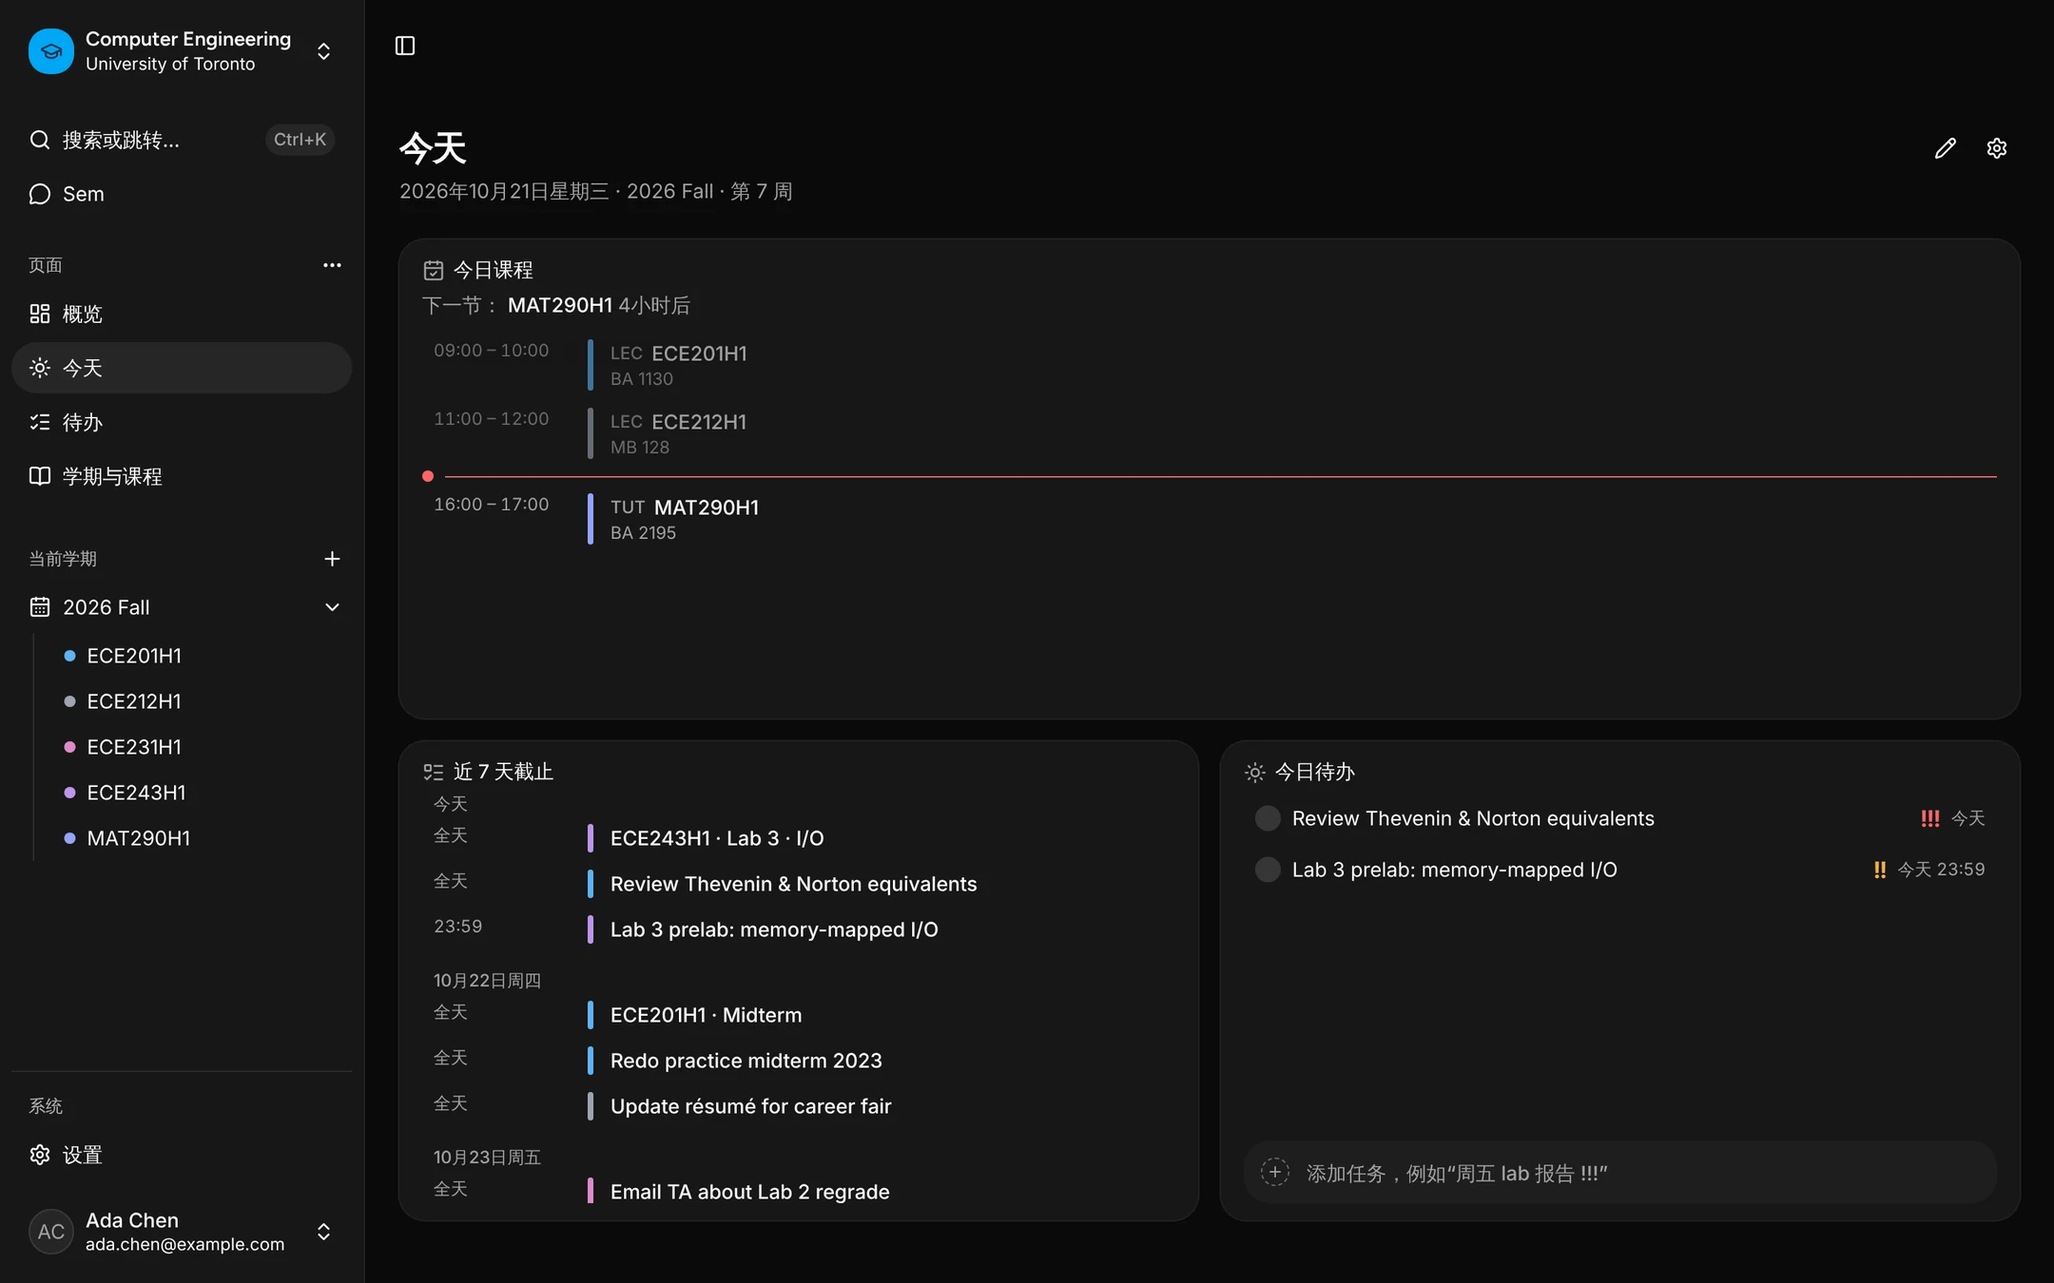
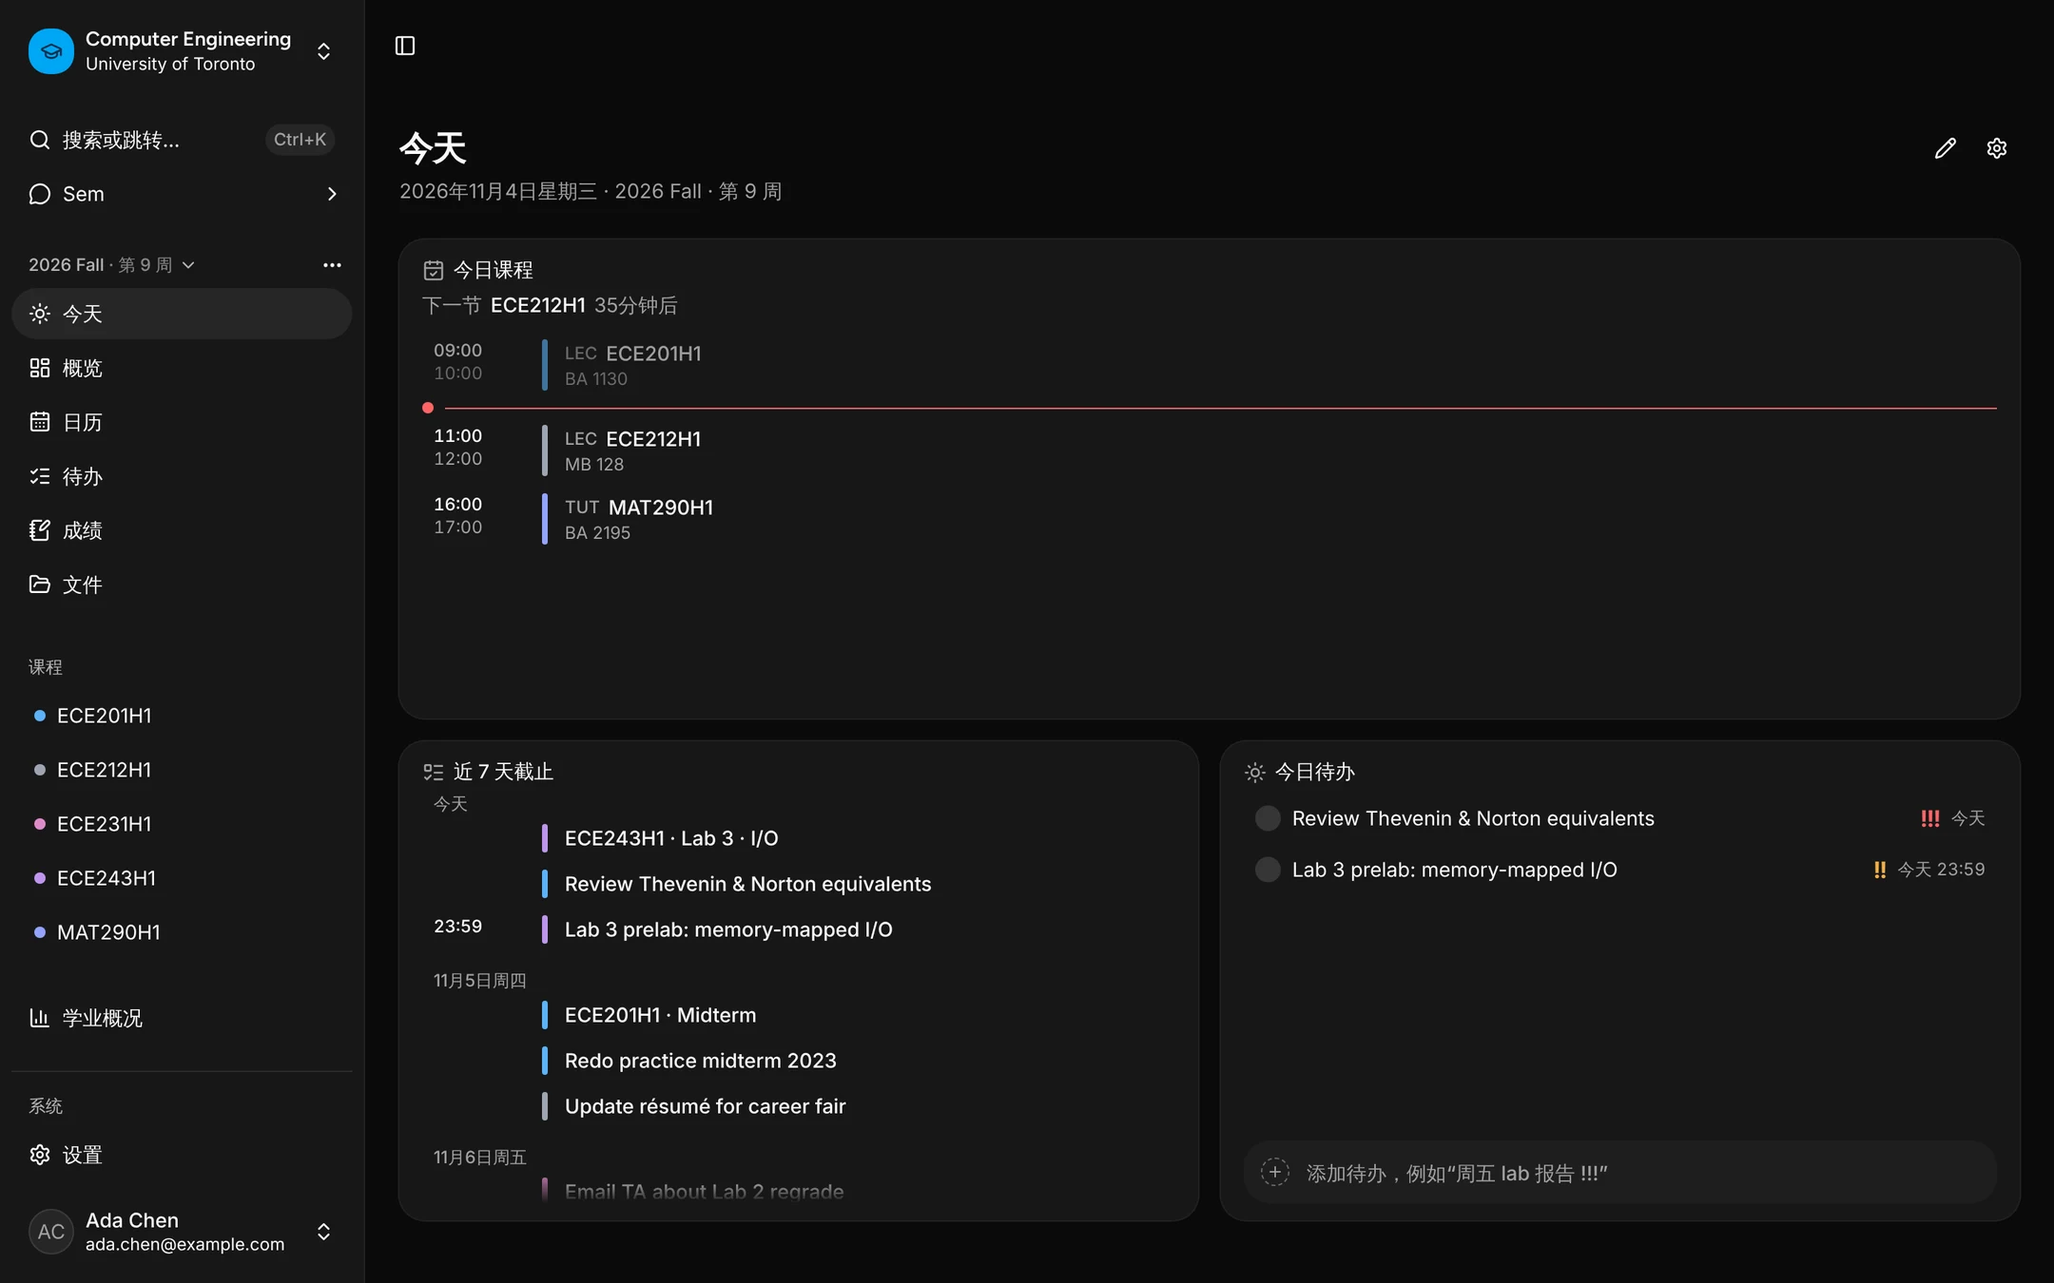
Refresh README and screenshots for the current app
Retake all 28 README screenshots (en/zh, light/dark) from the current UI and
update both READMEs: course files, academic summary, calendar export and
subscription link, start page, phone app, Sem permissions and compaction,
public images and self-hosting docs links, current tech stack.

Claude-Session: https://claude.ai/code/session_017sXEg4LEEDhhR8B2srFUJL

diff --git a/README.zh-CN.md b/README.zh-CN.md
@@ -23,7 +23,7 @@
 
 ## Semestra 是什么？
 
-Semestra 是给大学生用的学期规划工具。建好 Program，加上学期和课程，其余的都会自动连起来：成绩簿算出当前成绩和期末需要考多少，日历知道你的讲座、实验和考试，截止日期变成待办，内置助手 **Sem** 可以用自然语言查看和修改这一切。
+Semestra 是给大学生用的学期规划工具。建好学业项目，加上学期和课程，其余的都会自动连起来：成绩簿算出当前成绩和期末需要考多少，日历知道你的讲座、实验和考试，截止日期变成待办，内置助手 **Sem** 可以用自然语言查看和修改这一切。
 
 这个仓库是 [Semestra](https://github.com/jinyuanZhou-Leo/Semestra) 的从零重写版。每个功能都是一个声明了类型化 capability 的模块，所以同一个操作在界面里、在助手里、在插件里、通过 MCP 都能用。
 
@@ -33,13 +33,14 @@ Semestra 是给大学生用的学期规划工具。建好 Program，加上学期
 
 <picture>
   <source media="(prefers-color-scheme: dark)" srcset="docs/assets/screenshots/academics-zh-dark.webp" />
-  <img alt="学期与课程页：已结束学期的课程、学分、最终成绩与 GPA" src="docs/assets/screenshots/academics-zh-light.webp" />
+  <img alt="学期与课程页：当前学期的课程、学分与当前成绩" src="docs/assets/screenshots/academics-zh-light.webp" />
 </picture>
 
 - **每门课一个成绩簿**：加权分类、可标记不计入的考核、按分数或百分比录入，当前成绩实时计算。
 - **预测与规划模式**：设定目标，看剩下的考核平均需要多少分；或者试填"假设"分数，不影响真实成绩。
 - **学期与累计 GPA**：内置换算表（默认多伦多大学 4.0，另有美国 4.33、标准 4.0、澳洲 7 分制、韩国 4.5），也可以自定义。
 - **全年课**：跨多个学期，但只有一个最终成绩。
+- **学业概况**：整个学业项目的累计 GPA，以及按学期的 GPA 与学分图表。
 
 ### 课表与日历
 
@@ -50,7 +51,8 @@ Semestra 是给大学生用的学期规划工具。建好 Program，加上学期
 
 - **按教学班管理上课时间**（讲座、辅导、实验），带教室、起止周和单次停课。
 - **一个日历看全部**：上课、考核截止、待办到期、事件和 LMS 日历，支持周、月、列表和课表视图。
-- **冲突提醒**：上课时间重叠时会提示；支持 **ICS 导出和订阅链接**，可以同步到手机日历。
+- **冲突提醒**：上课时间重叠时会提示。
+- **导出与订阅**：日历可以存为图片、PDF 或 `.ics` 文件；每个学业项目还有一个订阅链接，可以添加到 Google 日历或手机日历，随时重置或停用。
 
 ### 今天与待办
 
@@ -64,9 +66,16 @@ Semestra 是给大学生用的学期规划工具。建好 Program，加上学期
   <img alt="待办列表：优先级、标记、截止日期与课程标签" src="docs/assets/screenshots/tasks-zh-light.webp" />
 </picture>
 
-- **今天页**：下一节课、本周到期和今天的待办。
+- **今天页**：下一节课、未来 7 天到期的内容和今天的待办。打开应用时先进入哪个页面，可以在 **设置 → 偏好设置** 里选。
 - **待办支持列表、智能列表和快速添加**：输入 `Fri lab report !!!`，日期和优先级会自动识别。待办可以归属课程，考核也能自动生成待办（在设置里开启）。
-- **页面自己排**：Program、学期和课程的页面都是卡片看板，可以排序、调整大小，还能用插件扩展。
+- **页面自己排**：学业项目、学期和课程的页面都是卡片看板，可以排序、调整大小，还能用插件扩展。
+- **手机上也能用**：在手机上打开是精简版，包含今天、待办和 Sem，可以添加到主屏幕。
+
+### 课程文件
+
+- **给每门课上传课件、笔记和阅读材料**，在应用里预览 PDF，并按关键词搜索文件内容（配置了 embedding 模型后还能按语义搜索）。
+- **扫描页用 OCR 识别**：使用你的 AI 服务商，自部署时也可以用本机的 OCR 模型。
+- **Sem 会注明出处**：引用文件的回答会链接到对应页码。
 
 ### Sem：AI 助手
 
@@ -77,8 +86,9 @@ Semestra 是给大学生用的学期规划工具。建好 Program，加上学期
 
 - **问账户里的任何事**，比如"期中要考多少分？"、"把 ECE243 的实验挪到周五"。Sem 用的是和应用相同的 capability，默认在修改数据前先给出确认卡片。
 - **使用你自己的 API 密钥**：支持 Anthropic、OpenAI、Google Gemini、Ollama，以及任何兼容 OpenAI 或 Anthropic 接口的服务商，按模型统计用量和费用。
-- **智能导入**：拖入 syllabus、课表或 ICS 文件，先审核抽取出的课程、上课时间和考核，再保存。
-- **记忆、技能和临时对话**，还有 `/mcp` 上的 **MCP 服务端**，外部客户端可以用 API 令牌调用同样的工具。
+- **智能导入**：拖入课程大纲、课表或 ICS 文件，先审核抽取出的课程、上课时间和考核，再保存。
+- **记忆、技能和临时对话**：长对话会自动压缩，上下文圆环显示剩余空间。
+- **按功能设置权限**，决定 Sem 哪些操作可以直接执行、哪些要先确认；MCP 客户端只有在你允许后才能删除数据。`/mcp` 上的 **MCP 服务端**让外部客户端用 API 令牌调用同样的工具。
 
 ### 插件与集成
 
@@ -89,7 +99,7 @@ Semestra 是给大学生用的学期规划工具。建好 Program，加上学期
 
 - **Canvas LMS**：关联 Canvas 课程后可以导入作业、叠加它的日历，并在 Canvas 标签页里浏览公告、成绩、单元、页面和测验。
 - **官方插件**，按账户安装：习惯打卡、番茄钟、便签、计数器和世界时钟。写插件见[插件开发指南](apps/docs/content/docs/plugins.zh.mdx)。
-- **设置逐级继承**：账户 → Program → 学期 → 课程；亮色与暗色主题；完整的中英文界面。
+- **设置逐级继承**：账户 → 学业项目 → 学期 → 课程，所有设置都能搜索；亮色与暗色主题，可选强调色；完整的中英文界面。
 - **数据归你所有**：一键导出为一个归档，导入到另一个实例，或者删除账户。
 
 ## 技术栈
@@ -98,7 +108,7 @@ Semestra 是给大学生用的学期规划工具。建好 Program，加上学期
 |---|---|
 | 后端 | FastAPI、SQLAlchemy 2、Alembic、SQLite（FTS5 与 sqlite-vec），Python 3.14（uv） |
 | AI | 基于官方 SDK 的 Pydantic AI agent 循环，出站请求走防 SSRF 的 HTTP 客户端 |
-| 前端 | React 19、TypeScript 7、Vite 8、TanStack Router（SPA）、TanStack Query / Table / Form、React Compiler |
+| 前端 | React 19、TypeScript 7、Vite 8、TanStack Router（SPA）、TanStack Query / Table、React Compiler（Oxc） |
 | UI | shadcn/ui（Base UI）、Tailwind CSS 4、AI Elements、FullCalendar |
 | 国际化 | Paraglide JS（`en`、`zh-CN`） |
 | API 客户端 | 用 `@hey-api/openapi-ts` 从 OpenAPI 生成 |
@@ -146,9 +156,7 @@ cp .env.example .env    # 可选
 docker compose up -d    # 然后打开 http://localhost:8000
 ```
 
-镜像目前还没公开：需要先登录 `ghcr.io` 或在本地构建，见 [deploy/selfhost/README.md](deploy/selfhost/README.md)。
-
-邮件、密钥、备份与升级见 [deploy/selfhost/README.md](deploy/selfhost/README.md)，全部环境变量的说明在 [deploy/.env.example](deploy/.env.example)。
+镜像已在 `ghcr.io` 公开。在局域网里运行、在有域名的服务器上运行（内置 Caddy，自动 HTTPS）、放在自己的反向代理后面，以及升级，见 [deploy/selfhost/README.md](deploy/selfhost/README.md)。邮件、备份、镜像选择、本机 OCR 等可选功能和全部设置见[自部署文档](apps/docs/content/docs/self-hosting)，全部环境变量列在 [deploy/.env.example](deploy/.env.example)。
 
 ## 目录结构
 
@@ -157,11 +165,12 @@ apps/
   api/                 FastAPI 后端：src/semestra/{core, modules/*}
   web/                 React SPA：src/{routes, app, modules/*, ui, components, lib}
   docs/                文档站（Fumadocs，静态导出）：自部署、AI、MCP、LMS、API
+  site/                官网（Astro）
 packages/
   api-client/          由 OpenAPI 生成的 TypeScript 客户端（不要手改 src/generated）
 deploy/                Dockerfile、自部署 compose、发布与部署脚本
 docs/
-  specs/               每个模块一份设计规格，M00 到 M16
+  specs/               每个模块一份设计规格，M00 到 M17
 ```
 
 大多数功能在前后端各是一个模块：`academics`、`grading`、`schedule`、`tasks`、`files`、`imports`、`lms`、`ai`、`plugins`、`settings`、`portability` 等（助手在后端叫 `agent`，在前端叫 `assistant`）。后端模块声明 **capability**，一份定义默认同时生成 REST 路由、助手工具和 MCP 工具；前端模块通过 `defineModule` 注册自己的页面、卡片和设置。

diff --git a/README.md b/README.md
@@ -33,13 +33,14 @@ This repository is a ground-up rewrite of the original [Semestra](https://github
 
 <picture>
   <source media="(prefers-color-scheme: dark)" srcset="docs/assets/screenshots/academics-dark.webp" />
-  <img alt="Terms and courses page showing a finished term's courses with credits, final grades and GPA" src="docs/assets/screenshots/academics-light.webp" />
+  <img alt="Terms and courses page: the current term's courses with credits and current marks" src="docs/assets/screenshots/academics-light.webp" />
 </picture>
 
 - **A gradebook for every course** with weighted categories, dropped assessments, scores as points or percentages, and a live current mark.
 - **Forecasts and plan mode.** Set a target and see the average you need on what's left, or try "what if" scores without touching your real marks.
 - **Term and cumulative GPA** with built-in scales (UofT 4.0 by default, plus US 4.33, standard 4.0, Australian 7 and Korean 4.5) or your own conversion table.
 - **Full-year courses** that span several terms and still carry one final grade.
+- **An academic summary** for the whole program, with cumulative GPA and charts of GPA and credits by term.
 
 ### Schedule and calendar
 
@@ -50,7 +51,8 @@ This repository is a ground-up rewrite of the original [Semestra](https://github
 
 - **Weekly class meetings by section** (lecture, tutorial, practical) with rooms, week ranges and one-off cancellations.
 - **One calendar for everything:** classes, assessment deadlines, task due dates, events and your LMS calendar, in week, month, list or timetable view.
-- **Conflict warnings** when two meetings overlap, plus **ICS export and subscription links** for the calendar on your phone.
+- **Conflict warnings** when two meetings overlap.
+- **Export and subscribe.** Save the calendar as an image, a PDF or an `.ics` file, or add one subscription link per program to Google Calendar or your phone. The link can be reset or turned off at any time.
 
 ### Today and tasks
 
@@ -64,9 +66,16 @@ This repository is a ground-up rewrite of the original [Semestra](https://github
   <img alt="Task list with priorities, flags, due dates and course tags" src="docs/assets/screenshots/tasks-light.webp" />
 </picture>
 
-- **A Today page** with your next class, what's due this week and today's tasks.
+- **A Today page** with your next class, what's due in the next 7 days and today's tasks. Choose the page Semestra opens on in **Settings → Preferences**.
 - **Tasks with lists, smart lists and quick add.** Type `Fri lab report !!!` and the date and priority fill themselves in. Tasks can belong to a course, and assessments can create matching tasks when you turn that on.
 - **Pages you arrange yourself.** Every program, term and course page is a board of cards you can reorder, resize and extend with plugins.
+- **On your phone**, Semestra opens a smaller app with Today, Tasks and Sem, and can be added to the home screen.
+
+### Course files
+
+- **Upload slides, notes and readings to each course**, preview PDFs in the app, and search inside them by keyword or, with an embedding model, by meaning.
+- **Scanned pages are read with OCR**, through your AI provider or, on a self-hosted server, a local OCR model.
+- **Sem cites your files.** Answers that use a document link to the exact pages.
 
 ### Sem, the AI assistant
 
@@ -78,7 +87,8 @@ This repository is a ground-up rewrite of the original [Semestra](https://github
 - **Ask about anything in your account**, like "what do I need on the midterm?" or "move my ECE243 lab to Friday". Sem uses the same capabilities as the app and by default shows a confirmation card before it changes your data.
 - **Bring your own key** for Anthropic, OpenAI, Google Gemini, Ollama, or any OpenAI- or Anthropic-compatible endpoint. Usage and cost are tracked per model.
 - **Smart import.** Drop in a syllabus, a timetable or an ICS file, then review the extracted courses, meetings and assessments before anything is saved.
-- **Memory, skills and temporary chats**, and an **MCP server** at `/mcp` so external clients can use the same tools with an API token.
+- **Memory, skills and temporary chats.** Long conversations are compacted automatically, and the context ring shows how much room is left.
+- **Permissions per feature** decide what Sem may do on its own and what needs your confirmation, and MCP clients can only delete data once you allow it. An **MCP server** at `/mcp` lets external clients use the same tools with an API token.
 
 ### Plugins and integrations
 
@@ -89,7 +99,7 @@ This repository is a ground-up rewrite of the original [Semestra](https://github
 
 - **Canvas LMS:** link a Canvas course to import its assignments, overlay its calendar, and browse announcements, grades, modules, pages and quizzes in a Canvas tab.
 - **First-party plugins**, installed per account: habit streak, Pomodoro timer, sticky notes, counter and world clock. See the [plugin authoring guide](apps/docs/content/docs/plugins.mdx).
-- **Settings that inherit** from account to program, term and course; light and dark themes; full English and Simplified Chinese.
+- **Settings that inherit** from account to program, term and course, with search across every setting; light and dark themes with an accent color; full English and Simplified Chinese.
 - **Your data stays yours:** export everything to one archive, import it into another instance, or delete your account.
 
 ## Tech stack
@@ -98,7 +108,7 @@ This repository is a ground-up rewrite of the original [Semestra](https://github
 |---|---|
 | Backend | FastAPI, SQLAlchemy 2, Alembic, SQLite (with FTS5 and sqlite-vec), Python 3.14 via uv |
 | AI | Pydantic AI agent loop on the official provider SDKs, through an SSRF-safe HTTP client |
-| Frontend | React 19, TypeScript 7, Vite 8, TanStack Router (SPA), TanStack Query, Table and Form, React Compiler |
+| Frontend | React 19, TypeScript 7, Vite 8, TanStack Router (SPA), TanStack Query and Table, React Compiler (Oxc) |
 | UI | shadcn/ui on Base UI, Tailwind CSS 4, AI Elements, FullCalendar |
 | i18n | Paraglide JS (`en`, `zh-CN`) |
 | API client | Generated from the OpenAPI schema with `@hey-api/openapi-ts` |
@@ -146,9 +156,7 @@ cp .env.example .env    # optional
 docker compose up -d    # then open http://localhost:8000
 ```
 
-The image isn't public yet: see [deploy/selfhost/README.md](deploy/selfhost/README.md) to log in to `ghcr.io` or build it locally.
-
-Email, secrets, backups and upgrades are covered in [deploy/selfhost/README.md](deploy/selfhost/README.md), and every environment variable is documented in [deploy/.env.example](deploy/.env.example).
+The images are public on `ghcr.io`. [deploy/selfhost/README.md](deploy/selfhost/README.md) covers running on your local network, on a server with a domain (bundled Caddy with automatic HTTPS) or behind your own reverse proxy, plus upgrades. Email, backups, image choice, optional features such as local OCR, and every setting are in the [self-hosting docs](apps/docs/content/docs/self-hosting), and every environment variable is listed in [deploy/.env.example](deploy/.env.example).
 
 ## Project structure
 
@@ -157,11 +165,12 @@ apps/
   api/                 FastAPI backend: src/semestra/{core, modules/*}
   web/                 React SPA: src/{routes, app, modules/*, ui, components, lib}
   docs/                Documentation site (Fumadocs, static): self-hosting, AI, MCP, LMS, API
+  site/                Landing page (Astro)
 packages/
   api-client/          TypeScript client generated from OpenAPI (don't edit src/generated)
 deploy/                Dockerfile, self-host compose, release and deploy scripts
 docs/
-  specs/               One design spec per module, M00 to M16
+  specs/               One design spec per module, M00 to M17
 ```
 
 Most features are a module on both sides: `academics`, `grading`, `schedule`, `tasks`, `files`, `imports`, `lms`, `ai`, `plugins`, `settings`, `portability` and more (the assistant is `agent` in the API and `assistant` in the web app). A backend module declares **capabilities**, and by default each one becomes a REST route, an assistant tool and an MCP tool from a single definition. A frontend module registers its pages, cards and settings with `defineModule`.
